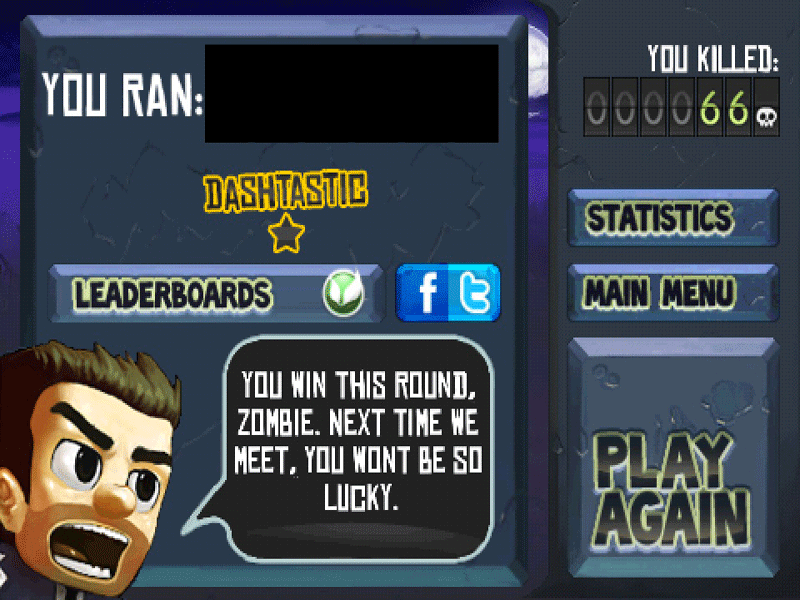
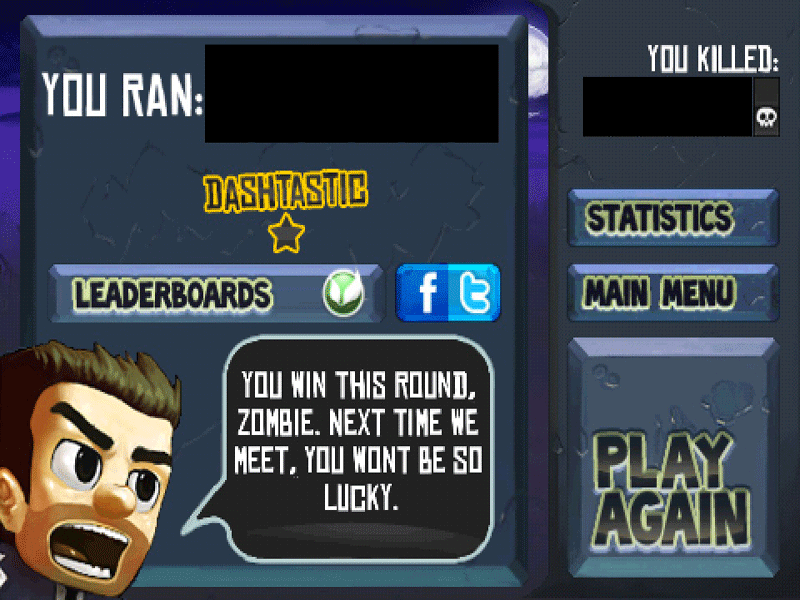
Kills en la pantalla final

Changed region(s): [[0.7188, 0.12, 0.9375, 0.24]]

diff --git a/entry/single.js b/entry/single.js
@@ -373,6 +373,10 @@ function setGameOver()
           ctx.font        = "4em Arial Black";
           ctx.fillStyle   = "White";
           ctx.fillText(runner.distanceScore+" m", 30, 30);
+
+          ctx.font        = "3em Arial Black";
+          ctx.fillStyle   = "White";
+          ctx.fillText(runner.killingScore + "", 400, 40);
       }
   }
   
